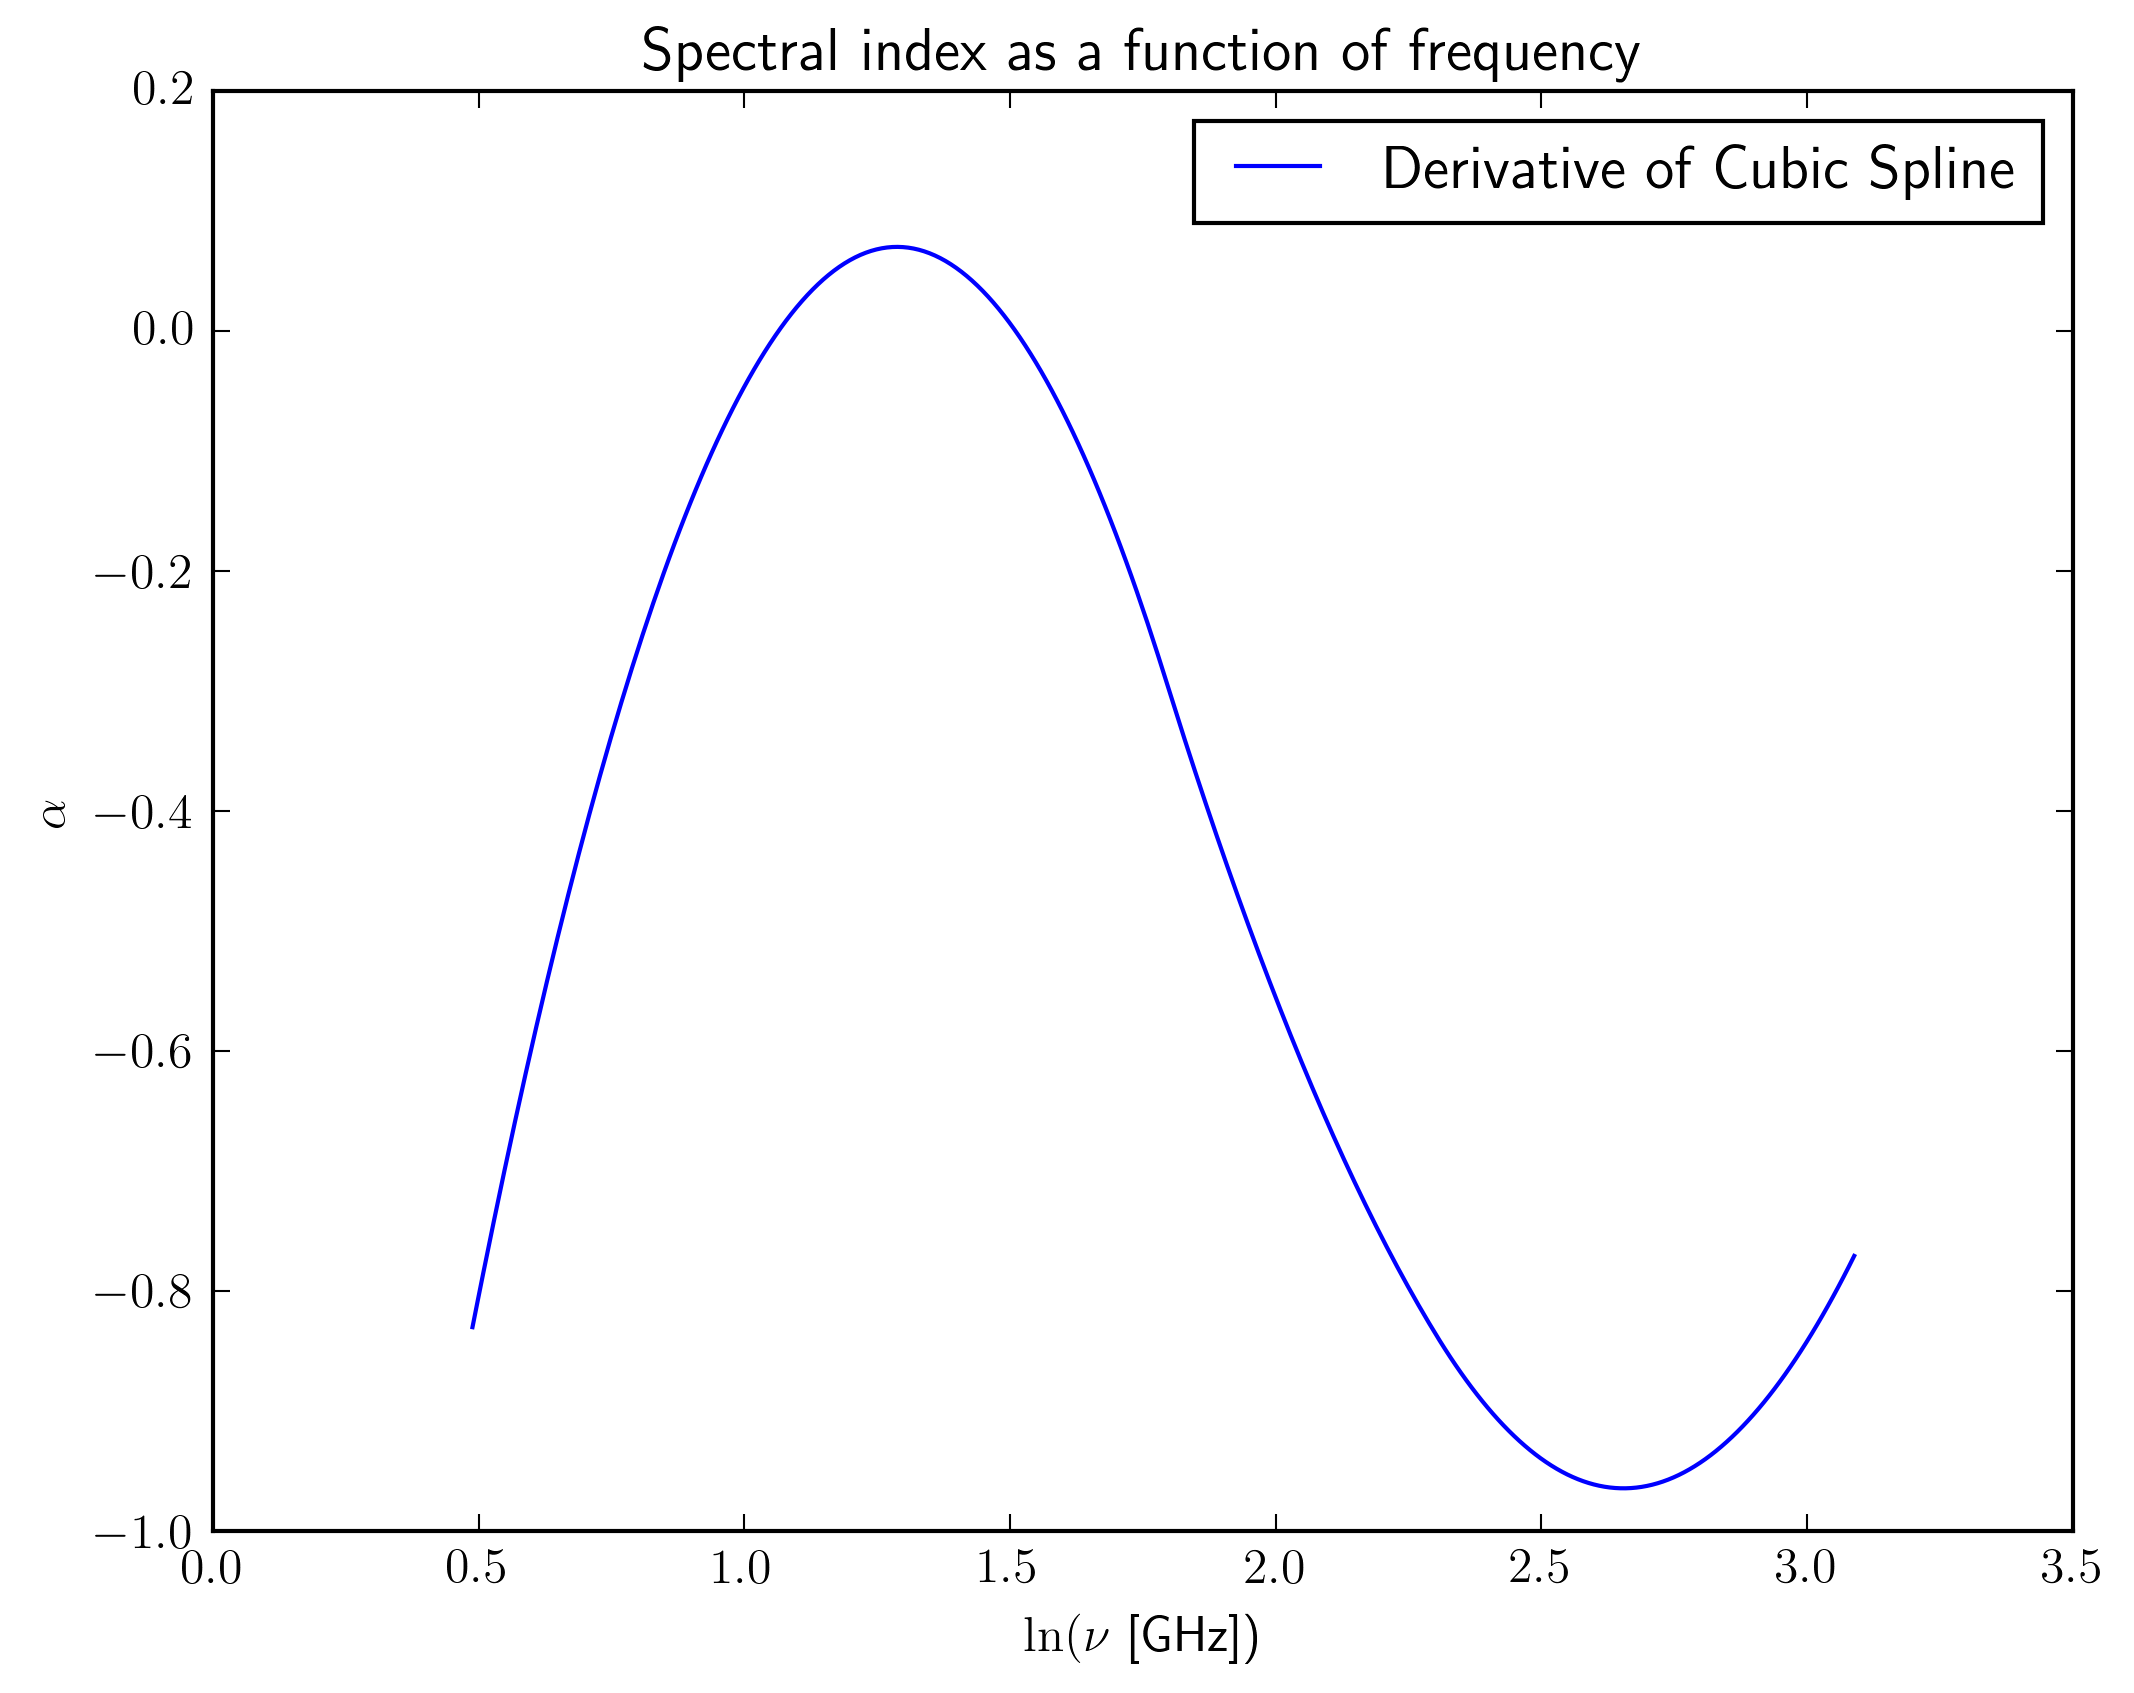
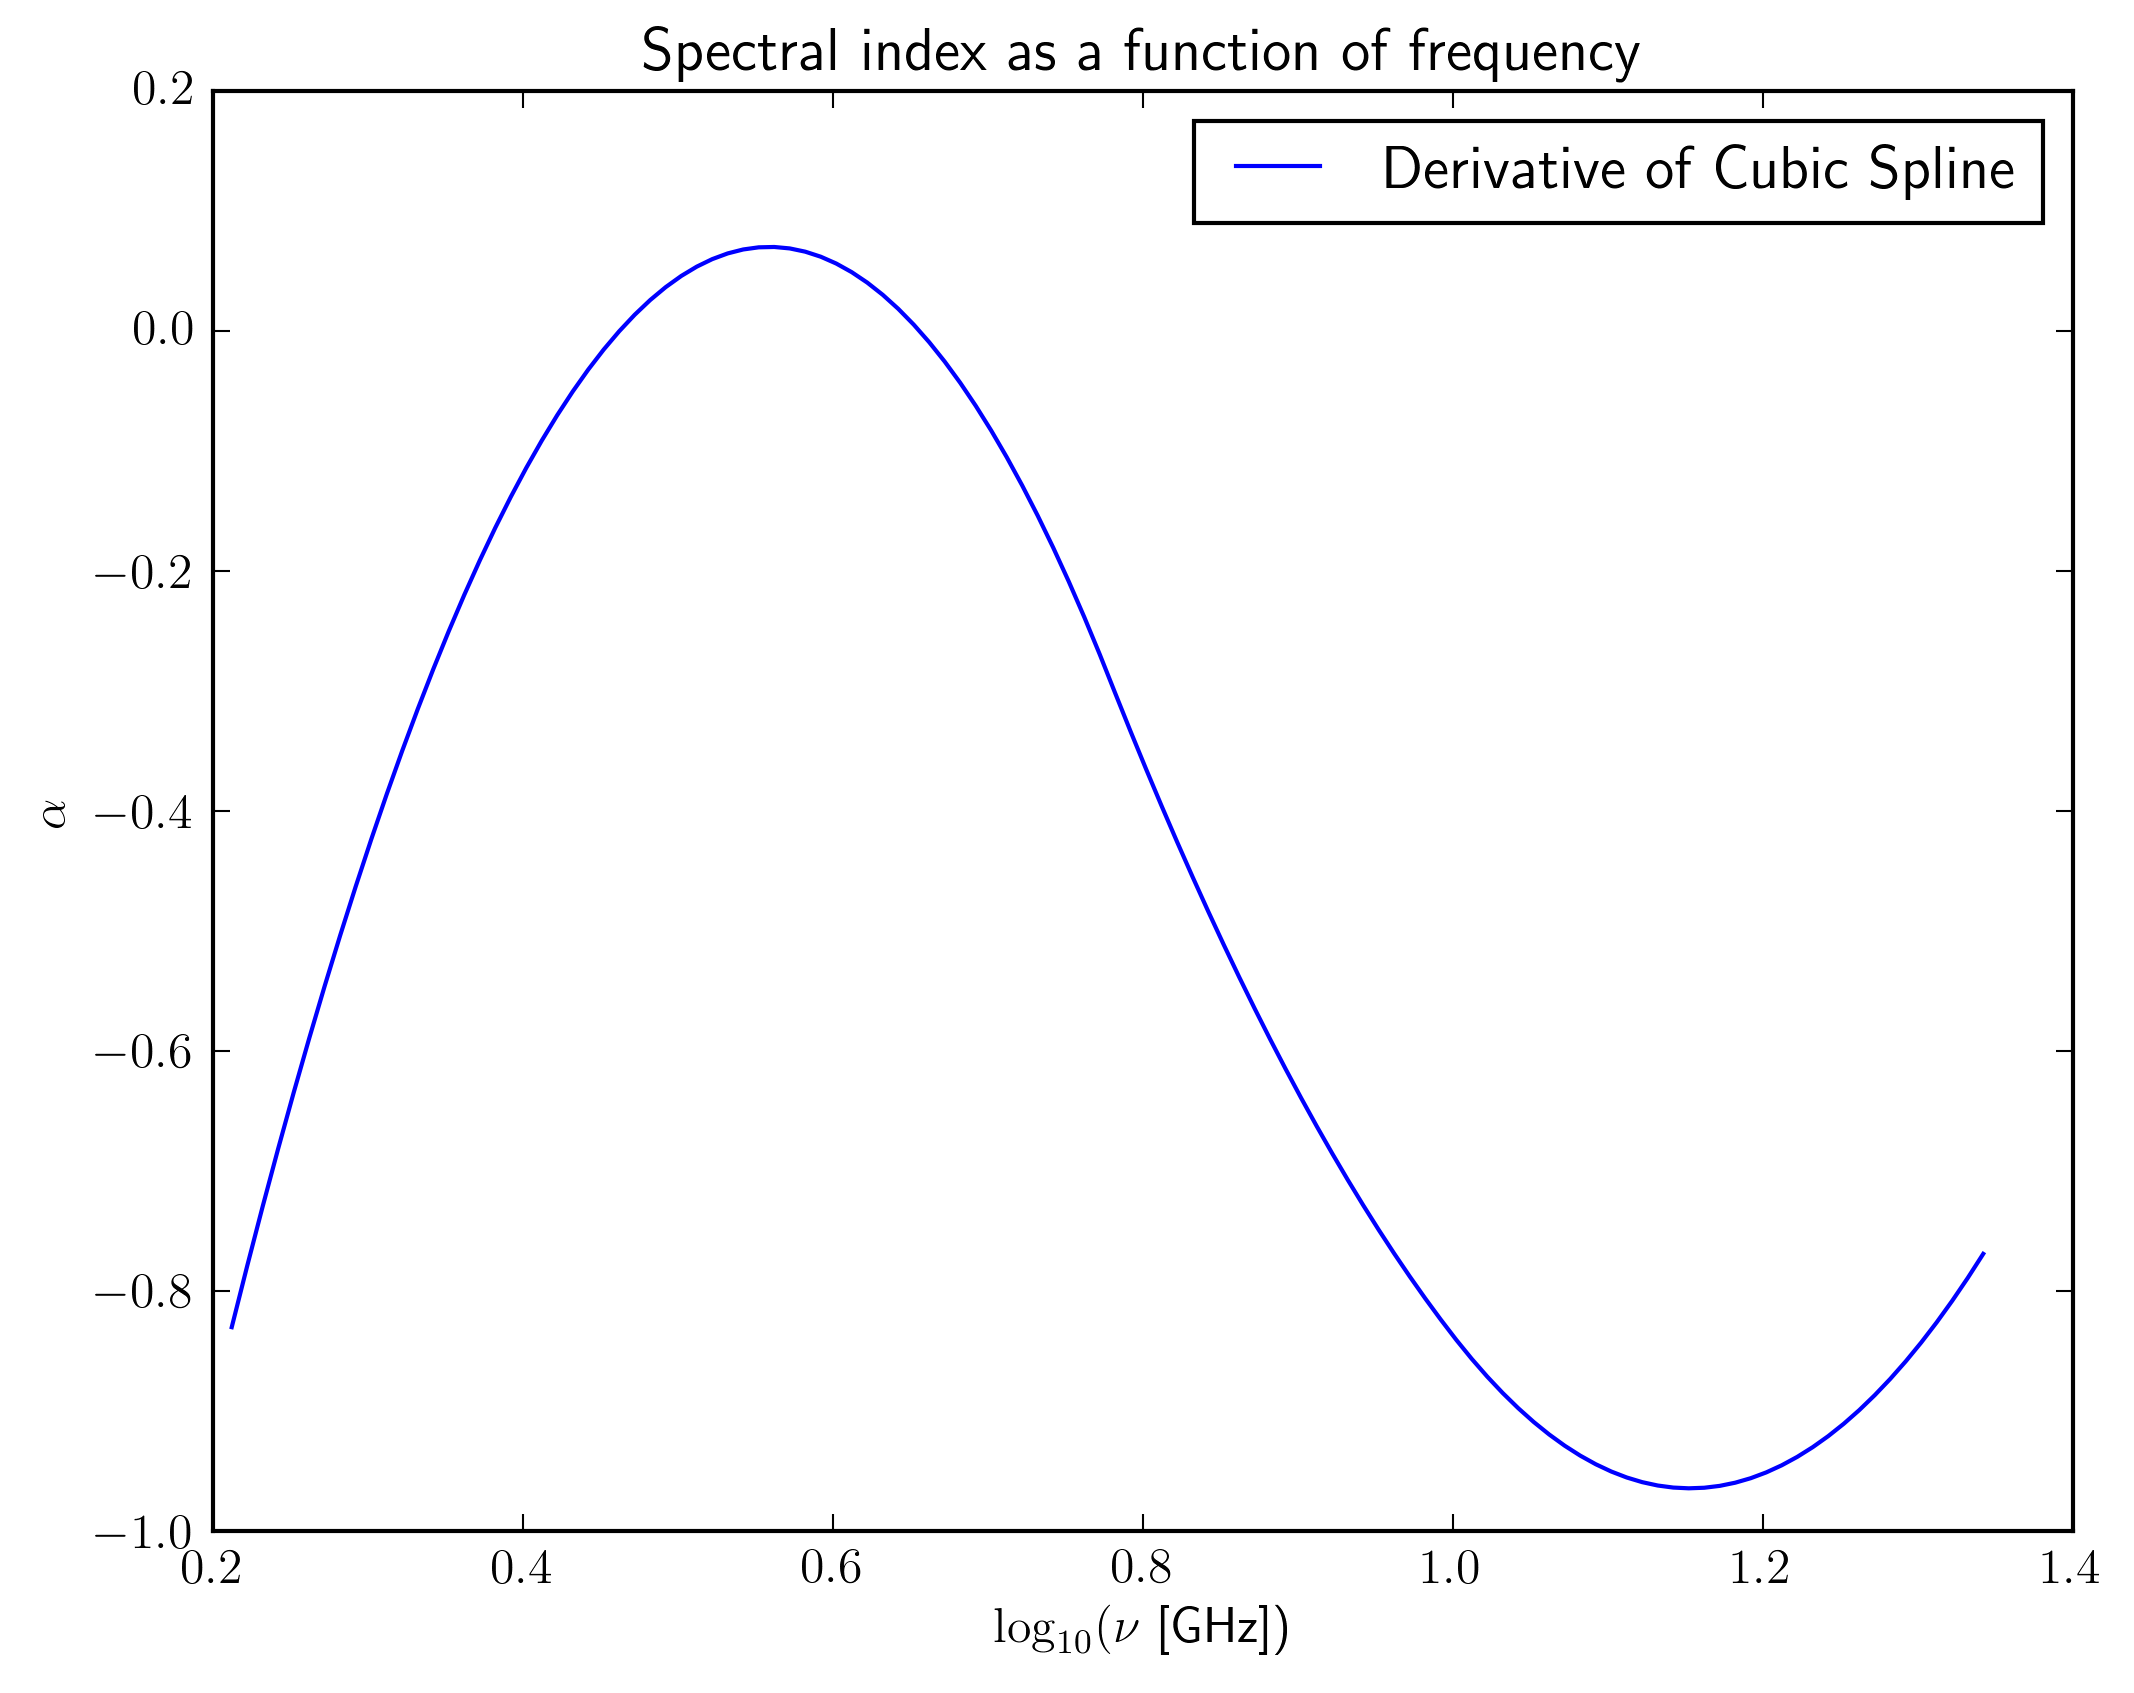
new plots

diff --git a/plotter.py b/plotter.py
@@ -4,8 +4,9 @@ from matplotlib import rc
 from scipy.interpolate import CubicSpline
 from scipy.interpolate import UnivariateSpline
 from scipy.optimize import curve_fit
+import scipy as s
 
-def line(x,a,c):
+def line(x,b,c):
     return x*b+c
 
 rc('font',**{'family':'sans-serif','sans-serif':['Computer Modern Roman','Helvetica']})#makes the plots have pretty fonts
@@ -14,29 +15,46 @@ rc('text', usetex=True)
 fluxes = np.loadtxt('fluxes.txt',skiprows=1)#load fluxes from file
 print("fluxes={0}".format(fluxes))
 
-spline = CubicSpline(np.log(fluxes[:,0]),np.log(fluxes[:,1]))
-uspline = UnivariateSpline(np.log(fluxes[:,0]),np.log(fluxes[:,1]))
-xspline = np.arange(np.amin(np.log(fluxes[:,0])), np.max(np.log(fluxes[:,0])),0.01)
-line1 =  np.polyfit( np.log(fluxes[0:3,0]),np.log(fluxes[0:3,1]),1)
-line2 =  np.polyfit(np.log(fluxes[2:6,0]),np.log(fluxes[2:6,1]),1)
-x1 =  np.arange(np.amin(np.log(fluxes[0:3,0])), np.max(np.log(fluxes[0:3,0])),0.01)
-x2 =  np.arange(np.amin(np.log(fluxes[2:6,0])), np.max(np.log(fluxes[2:6,0])),0.01)
+spline = CubicSpline(np.log10(fluxes[:,0]),np.log10(fluxes[:,1]))
+uspline = UnivariateSpline(np.log10(fluxes[:,0]),np.log10(fluxes[:,1]))
+xspline = np.arange(np.amin(np.log10(fluxes[:,0])), np.max(np.log10(fluxes[:,0])),0.01)
+line1 =  np.polyfit( np.log10(fluxes[0:3,0]),np.log10(fluxes[0:3,1]),1)
+line2 =  np.polyfit(np.log10(fluxes[2:6,0]),np.log10(fluxes[2:6,1]),1)
+x1 =  np.arange(np.amin(np.log10(fluxes[0:3,0])), np.max(np.log10(fluxes[0:3,0])),0.01)
+x2 =  np.arange(np.amin(np.log10(fluxes[2:6,0])), np.max(np.log10(fluxes[2:6,0])),0.01)
 p1 = np.poly1d(line1)
 p2 = np.poly1d(line2)
 
+popt1, pcov1 = curve_fit(line, np.log10(fluxes[0:3,0]),np.log10(fluxes[0:3,1]))
+popt2, pcov2 = curve_fit(line, np.log10(fluxes[2:6,0]),np.log10(fluxes[2:6,1]))
+perr1 = np.sqrt(np.diag(pcov1))
+perr2 = np.sqrt(np.diag(pcov2))
+print("area under the curve = {0} uJy".format(s.integrate.simps(fluxes[:,1],fluxes[:,0])))
+#splineFull = CubicSpline(fluxes[:,0],fluxes[:,1])
+#xFull =  np.arange(np.amin(fluxes[:,0]), np.max(fluxes[:,0]),0.01)
+#fig3 = plt.figure()#plot fluxes
+#ax3 = fig3.add_subplot(111)
+#ax3.errorbar(fluxes[:,0],fluxes[:,1],fluxes[:,2],fmt='o')
+#ax3.errorbar(fluxes[:,0],fluxes[:,1],fluxes[:,2],fmt='o')
+#ax3.plot(xFull,splineFull(xFull))
+#ax3.set_title(r"Continuum Spectrum")
+#ax3.set_xlabel(r"$(\nu$ [GHz])")
+#ax3.set_ylabel(r"(Flux Density [$\mu$Jy])")
+
+#print("Area under spline = {0)".format(splineFull.integrate()(22.1)-splineFull.integrate.(1.63)))
 fig1 = plt.figure()#plot fluxes
 ax1 = fig1.add_subplot(111)
-ax1.errorbar(np.log(fluxes[:,0]),np.log(fluxes[:,1]),yerr=np.multiply(np.divide(np.log(fluxes[:,1]),fluxes[:,1]),fluxes[:,2]),fmt='o')
+ax1.errorbar(np.log10(fluxes[:,0]),np.log10(fluxes[:,1]),yerr=np.multiply(np.divide(np.log10(fluxes[:,1]),fluxes[:,1]),fluxes[:,2]),fmt='o')
 #print(xspline)
 #print(spline(xspline))
 ax1.plot(xspline,spline(xspline))
 #ax1.plot(xspline,uspline(xspline))
 #ax1.plot(x1,p1(x1), x2, p2(x2))
 ax1.set_title(r"Continuum Spectrum")
-ax1.set_xlabel(r"$\ln(\nu$ [GHz])")
-ax1.set_ylabel(r"$\ln$(Flux Density [$\mu$Jy])")
+ax1.set_xlabel(r"$\log_{10}(\nu$ [GHz])")
+ax1.set_ylabel(r"$\log_{10}$(Flux Density [$\mu$Jy])")
 ax1.legend(["Cubic Spline","Measured Flux Density"], loc='best')
-fig1.savefig('fluxVsFreq.png', bbox_inches='tight', dpi=300)
+fig1.savefig('fluxVsFreq.png', dpi=300)#, bbox_inches='tight'
 #plt.legend()
 #plt.show()
 
@@ -45,8 +63,23 @@ ax2 = fig2.add_subplot(111)
 ax2.plot(xspline,spline.derivative(1)(xspline))
 #ax2.plot(xspline,uspline.derivative()(xspline))
 ax2.set_title(r"Spectral index as a function of frequency")
-ax2.set_xlabel(r"$\ln(\nu$ [GHz])")
+ax2.set_xlabel(r"$\log_{10}(\nu$ [GHz])")
 ax2.set_ylabel(r"$\alpha$")
 ax2.legend(["Derivative of Cubic Spline"], loc='best')
 fig2.savefig('spectral index.png', bbox_inches='tight', dpi=300)
+
+fig3 = plt.figure()#plot fluxes
+ax3 = fig3.add_subplot(111)
+ax3.errorbar(np.log10(fluxes[:,0]),np.log10(fluxes[:,1]),yerr=np.multiply(np.divide(np.log10(fluxes[:,1]),fluxes[:,1]),fluxes[:,2]),fmt='o')
+#print(xspline)
+#print(spline(xspline))
+#ax3.plot(xspline,spline(xspline))
+#ax3.plot(xspline,uspline(xspline))
+ax3.plot(x1,line(x1,*popt1), x2, line(x2,*popt2))
+ax3.set_title(r"Continuum Spectrum")
+ax3.set_xlabel(r"$\log_{10}(\nu$ [GHz])")
+ax3.set_ylabel(r"$\log_{10}$(Flux Density [$\mu$Jy])")
+ax3.legend([r"Best Fit Line ({0:.3f}$\pm${1:.3f})x+{2:.3f}$\pm${3:.3f}".format(popt1[0],perr1[0],popt1[1],perr1[1]),"Best Fit Line ({0:.3f}$\pm${1:.3f})x+{2:.3f}$\pm${3:.3f}".format(popt2[0],perr2[0],popt2[1],perr2[1]),"Measured Flux Density"], loc='best')
+fig3.savefig('fluxVsFreqLineFit.png', dpi=300)#, bbox_inches='tight'
+
 plt.show()
